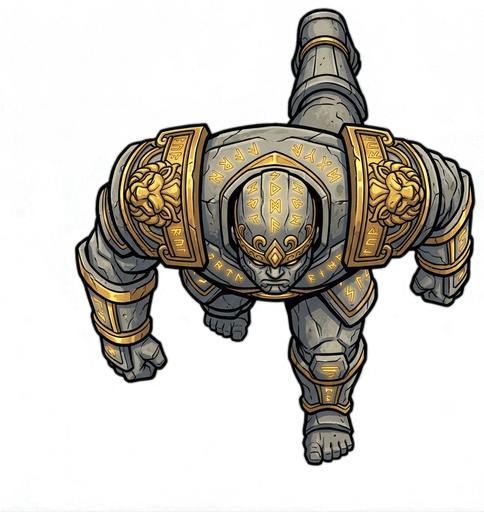
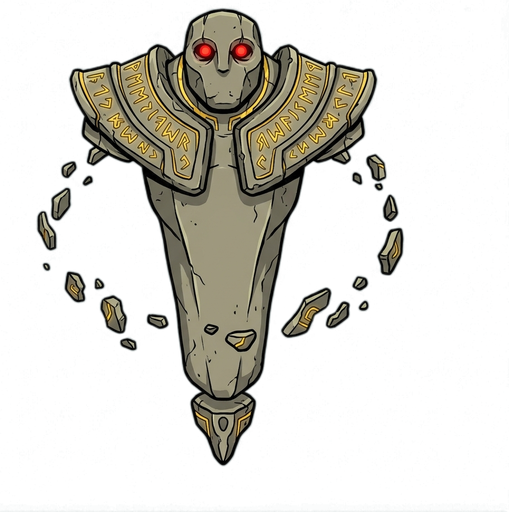
feat: Dragon Tide v0.9.0 — 建物/背景のGemini画像化＋コロッサスを浮遊守護像に差し替え
- 建物3種（小屋根/円塔/大城郭）をGemini生成の無彩色スプライト化し、
  建物色でティントして描画（時代パレットは維持）。瓦礫はベクターのまま
- ティントキャッシュはRGB24刻み量子化＋128px縮小でメモリ約3MBに抑制
- 地面にGemini生成の低コントラスト土テクスチャをタイル敷き（alpha 0.30、
  ステージ色を透かしユニット視認性を優先）
- コロッサスを「浮遊する守護像」に差し替え（歩行アニメ不要のデザイン変更）。
  浮遊ボブ＋脈動＋落ち影で浮遊感を表現
- 全移動敵に生気づけアニメ: 地上ユニットは歩行スイング、気球はゆらぎ、
  甲鉄艦は控えめな車体揺れ
- 検証: 全8ステージのレイヤー構築170-380ms、竜と建物の輝度分離をピクセル解析で確認

diff --git a/prototypes/dragon-tide/index.html b/prototypes/dragon-tide/index.html
@@ -383,7 +383,7 @@
 // -----------------------------------------------------------------
 // バージョン定数（ここだけ更新すれば画面に反映される）
 // -----------------------------------------------------------------
-const GAME_VERSION = "v0.8.0";
+const GAME_VERSION = "v0.9.0";
 document.getElementById("hud-version").textContent = GAME_VERSION;
 
 /* ============================================================
@@ -2134,6 +2134,7 @@ function makeMover(def, randPoint) {
       wpDir: 1,                 // pingpong 用の進行方向（1/-1）
       attackTimer: Math.random() * 2.0,
       beamTargetIdx: -1,        // colossus の照射対象（描画用）
+      swayPhase: Math.random() * Math.PI * 2,  // v0.9: 生気づけアニメの個体位相
       alive: true,
     };
   }
@@ -2481,8 +2482,36 @@ function drawMovers() {
       const drawW = def.radius * meta.drawScale;
       const s     = drawW / enemyImg.naturalWidth;
       const drawH = enemyImg.naturalHeight * s;
+      const phase = m.swayPhase ?? 0;
+
+      // v0.9: 浮遊ユニット（守護像・気球）は地面に落ち影を描いて高度感を出す
+      if (meta.hover || def.flying) {
+        ctx.globalAlpha = 0.22;
+        ctx.fillStyle = "#000000";
+        ctx.beginPath();
+        ctx.ellipse(5, 8, def.radius * 0.85, def.radius * 0.55, 0, 0, Math.PI * 2);
+        ctx.fill();
+        ctx.globalAlpha = 1.0;
+      }
+
       if (meta.forward === "up")        ctx.rotate(angle + Math.PI / 2);
       else if (meta.forward === "down") ctx.rotate(angle - Math.PI / 2);
+
+      // v0.9: 生気づけアニメーション。静止画のまま滑るのを防ぐ
+      if (meta.hover) {
+        // 浮遊: 呼吸のような脈動＋ゆっくり漂う傾き（守護像＝歩行アニメ不要のデザイン）
+        const bob = Math.sin(breathTime * 2.2 + phase);
+        ctx.rotate(bob * 0.06);
+        const sc = 1 + bob * 0.045;
+        ctx.scale(sc, sc);
+      } else if (def.name === "balloon") {
+        ctx.rotate(Math.sin(breathTime * 0.9 + phase) * 0.07);
+      } else {
+        // 地上ユニット: 歩行スイング（車両の甲鉄艦はごく控えめに）
+        const swayAmp = def.name === "ironclad" ? 0.02 : 0.05;
+        ctx.rotate(Math.sin(breathTime * 5.0 + phase) * swayAmp);
+      }
+
       ctx.drawImage(
         enemyImg,
         -enemyImg.naturalWidth  * s * meta.px,
@@ -2781,8 +2810,21 @@ function drawGroundDetailOnLayer(bctx) {
   const lighter = shadeColor(config.bgColor, 14);
   const darker  = shadeColor(config.bgColor, -8);
 
+  // v0.9: Gemini生成の低コントラスト地表タイルを薄く敷く。
+  // alpha を抑えてステージ背景色を透かす＝時代ごとの色味を保ちつつ質感だけ足す。
+  // ユニット視認性を優先し、これ以上濃くしないこと。
+  if (groundTileImage) {
+    const pattern = bctx.createPattern(groundTileImage, "repeat");
+    if (pattern) {
+      bctx.globalAlpha = 0.30;
+      bctx.fillStyle = pattern;
+      bctx.fillRect(0, 0, WORLD_W, WORLD_H);
+      bctx.globalAlpha = 1.0;
+    }
+  }
+
   // 大きな柔らかいパッチ（地表のむら）
-  for (let k = 0; k < 90; k++) {
+  for (let k = 0; k < 60; k++) {
     const x = Math.random() * WORLD_W;
     const y = Math.random() * WORLD_H;
     const rx = 90 + Math.random() * 240;
@@ -2794,9 +2836,9 @@ function drawGroundDetailOnLayer(bctx) {
     bctx.fill();
   }
 
-  // 細かいスペックル（砂利・草むら）
+  // 細かいスペックル（砂利・草むら。v0.9: タイルが質感を担うため減量）
   bctx.globalAlpha = 0.22;
-  for (let k = 0; k < 1400; k++) {
+  for (let k = 0; k < 700; k++) {
     const x = Math.random() * WORLD_W;
     const y = Math.random() * WORLD_H;
     const size = 1 + Math.random() * 2.5;
@@ -2854,6 +2896,69 @@ function drawTownRoadsOnLayer(bctx, meta) {
   }
 }
 
+// -----------------------------------------------------------------
+// v0.9: 建物スプライトのティント（無彩色スプライト × 建物色 = 時代ごとの街並み）
+// multiply で着色 → destination-in で元の透明度を復元する定番レシピ。
+// キャッシュは (サイズ, 色) 単位。1ステージで使う色は十数種なので小さく収まる。
+// -----------------------------------------------------------------
+const _tintedBuildingCache = new Map();
+
+// 建物色はshadeColorの±15ゆらぎで建物ごとに微妙に違う。そのままキャッシュキーに
+// すると数百枚のティントcanvas（数十MB）になるため、RGB各24刻みに量子化して
+// 色数を数十種に抑える（見た目の差はほぼ分からない）。
+function quantizeTintColor(color) {
+  let r = 128, g = 128, b = 128;
+  if (color.startsWith("#") && color.length >= 7) {
+    r = parseInt(color.slice(1, 3), 16);
+    g = parseInt(color.slice(3, 5), 16);
+    b = parseInt(color.slice(5, 7), 16);
+  } else {
+    const m = color.match(/rgb\((\d+),(\d+),(\d+)\)/);
+    if (m) { r = +m[1]; g = +m[2]; b = +m[3]; }
+  }
+  const q = (v) => Math.min(255, Math.round(v / 24) * 24);
+  return `rgb(${q(r)},${q(g)},${q(b)})`;
+}
+
+function getTintedBuildingSprite(sizeKey, rawColor) {
+  const color = quantizeTintColor(rawColor);
+  const cacheKey = sizeKey + "_" + color;
+  const cached = _tintedBuildingCache.get(cacheKey);
+  if (cached) return cached;
+  const img = buildingImages[sizeKey];
+  if (!img) return null;
+
+  // ティントcanvasは128pxに縮小して保持する。建物の描画サイズは最大でも
+  // 64ワールドpx程度なので画質は落ちず、キャッシュのメモリを1/4に抑えられる。
+  const TINT_CANVAS_SIZE = 128;
+  const scale = TINT_CANVAS_SIZE / Math.max(img.naturalWidth, img.naturalHeight);
+  const tc = document.createElement("canvas");
+  tc.width  = Math.max(1, Math.round(img.naturalWidth * scale));
+  tc.height = Math.max(1, Math.round(img.naturalHeight * scale));
+  const c = tc.getContext("2d");
+  c.drawImage(img, 0, 0, tc.width, tc.height);
+  c.globalCompositeOperation = "multiply";
+  c.fillStyle = color;
+  c.fillRect(0, 0, tc.width, tc.height);
+  c.globalCompositeOperation = "destination-in";
+  c.drawImage(img, 0, 0, tc.width, tc.height);
+
+  _tintedBuildingCache.set(cacheKey, tc);
+  return tc;
+}
+
+/** 建物に使うスプライトのサイズキーを返す（対象外の建物は null）。 */
+function buildingSpriteKeyFor(settlement) {
+  if (settlement._isWall || settlement.isBoss) return null;
+  switch (settlement.size) {
+    case "tiny":
+    case "small":  return "small";
+    case "medium": return "medium";
+    case "large":  return "large";
+    default:       return null;
+  }
+}
+
 function drawSettlementOnLayer(bctx, settlement) {
   const alpha = settlement.fallen ? 0.22 : 1.0;
   const color = settlement.fallen ? "#333" : settlement.color;
@@ -2875,6 +2980,22 @@ function drawSettlementOnLayer(bctx, settlement) {
     bctx.globalAlpha = alpha;
   }
 
+  // v0.9: 建物スプライトが使えるならティントして描画（瓦礫はベクター描画のまま）
+  const spriteKey  = settlement.fallen ? null : buildingSpriteKeyFor(settlement);
+  const tinted     = spriteKey ? getTintedBuildingSprite(spriteKey, color) : null;
+  const usedSprite = !!tinted;
+
+  if (tinted) {
+    const drawW = settlement.radius * 2.3;
+    const drawH = drawW * (tinted.height / tinted.width);
+    // 座標由来の決定的な左右反転でタイル感を減らす
+    const flip = (Math.floor(settlement.wx * 7 + settlement.wy * 13) % 2 === 0) ? 1 : -1;
+    bctx.save();
+    bctx.translate(settlement.wx, settlement.wy);
+    bctx.scale(flip, 1);
+    bctx.drawImage(tinted, -drawW / 2, -drawH / 2, drawW, drawH);
+    bctx.restore();
+  } else {
   switch (settlement.shape) {
     case "circle":      drawCircleOnCtx(bctx, settlement.wx, settlement.wy, settlement.radius, color); break;
     case "square":      drawSquareOnCtx(bctx, settlement.wx, settlement.wy, settlement.radius, color); break;
@@ -2894,9 +3015,11 @@ function drawSettlementOnLayer(bctx, settlement) {
       break;
     default:            drawCircleOnCtx(bctx, settlement.wx, settlement.wy, settlement.radius, color); break;
   }
+  }
 
   // v0.8: 屋根のシェーディング（左上のシーン＋窓明かり）で建物のクオリティを上げる
-  if (!settlement.fallen && !settlement._isWall && !settlement.isBoss) {
+  // v0.9: スプライト描画時はスプライト自体に陰影があるためスキップ
+  if (!usedSprite && !settlement.fallen && !settlement._isWall && !settlement.isBoss) {
     const swx = settlement.wx;
     const swy = settlement.wy;
     const sr  = settlement.radius;
@@ -7255,12 +7378,27 @@ const ENEMY_IMAGE_SOURCES = {
   citadel:  "assets/boss_citadel.png",
 };
 
+// v0.9: 建物スプライト（Gemini生成・無彩色→ステージ色でティントして使う）
+// tiny/small→small、medium→medium、large/首都→large を充当。城壁・ボスは対象外。
+const BUILDING_IMAGE_SOURCES = {
+  small:  "assets/building_small.png",
+  medium: "assets/building_medium.png",
+  large:  "assets/building_large.png",
+};
+const buildingImages = {};
+
+// v0.9: 地面テクスチャタイル（低コントラスト。ユニット視認性を損なわないよう薄く敷く）
+const GROUND_TILE_SOURCE = "assets/ground_tile.jpg";
+let groundTileImage = null;
+
 // 回転ピボット（アルファ質量重心の相対座標。chroma_key後にPIL+numpyで実測した値）と
 // 画像内の前方方向。forward: "up"=画像上が前 / "down"=画像下が前 / "none"=回転させない。
 // drawScale は def.radius（当たり判定半径）に掛けて描画幅にする係数。
 const ENEMY_SPRITE_META = {
   mammoth:  { px: 0.4999, py: 0.5494, forward: "up",   drawScale: 2.6 },
-  colossus: { px: 0.5777, py: 0.4503, forward: "down", drawScale: 2.6 },
+  // v0.9: コロッサスを「浮遊する守護像」に差し替え（歩行アニメ不要のデザインへ変更。
+  // 質量重心は周回破片で左に寄るため、視覚中心寄りに手動補正した値を使う）
+  colossus: { px: 0.47,   py: 0.42,   forward: "up",   drawScale: 2.9, hover: true },
   knights:  { px: 0.5075, py: 0.4779, forward: "up",   drawScale: 2.5 },
   ironclad: { px: 0.5035, py: 0.5300, forward: "up",   drawScale: 2.8 },
   balloon:  { px: 0.5140, py: 0.4902, forward: "none", drawScale: 2.6 },
@@ -7352,7 +7490,12 @@ function preloadDragonImages() {
   const enemyTasks = Object.keys(ENEMY_IMAGE_SOURCES).map((name) =>
     loadOne(ENEMY_IMAGE_SOURCES[name], (img) => { enemyImages[name] = img; }));
 
-  return Promise.all([...tasks, ...enemyTasks]).then(() => {
+  // v0.9: 建物スプライト＋地面タイル（失敗した分だけベクター/単色にフォールバック）
+  const buildingTasks = Object.keys(BUILDING_IMAGE_SOURCES).map((size) =>
+    loadOne(BUILDING_IMAGE_SOURCES[size], (img) => { buildingImages[size] = img; }));
+  const groundTask = loadOne(GROUND_TILE_SOURCE, (img) => { groundTileImage = img; });
+
+  return Promise.all([...tasks, ...enemyTasks, ...buildingTasks, groundTask]).then(() => {
     // dragonImagesLoaded は竜画像のみで判定（敵画像の失敗と切り離す）
     dragonImagesLoaded =
       Object.keys(DRAGON_IMAGE_SOURCES).every((element) => dragonImages[element]) &&
